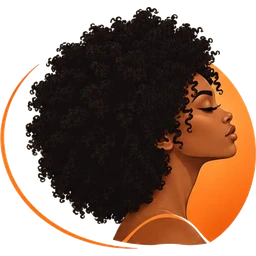
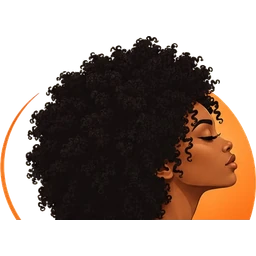
Release 0.2.0 (8) and pushed update 2: type 4 copy, hair-only mark
The landing hero now reads "Type 4 hair · loose or locked", "Hair SOS for
your coils." and "AfroCoils. Tailored to your hair, your hair care, and
easy styling." The page titles, About, the landing site's loose-hair card
and the README follow it to type 4. The quiz's curl-pattern options and
product tags still list 3A-3C: they describe hair, not who the app is for.

The mark is cut to the top 76% of the illustration so it shows the hair
and face, not the shoulders. brand:import regenerated the app mark,
favicons and launcher icons; the hero and splash keep the whole logo.
Update 2 carries the copy and mark to build 7; build 8 adds the icon.

diff --git a/site/index.html b/site/index.html
@@ -4,13 +4,13 @@
     <meta charset="UTF-8" />
     <meta name="viewport" content="width=device-width, initial-scale=1.0" />
     <meta name="theme-color" content="#E8D5C0" />
-    <title>AfroCoils — Hair SOS for coils, curls &amp; locs</title>
+    <title>AfroCoils — Hair SOS for your coils</title>
     <meta
       name="description"
-      content="AfroCoils is a hair app for type 3 and 4 hair, loose or locked. It opens straight into the rescue, works offline, needs no account, and keeps everything on your phone. Download for Android."
+      content="AfroCoils is a hair app for type 4 hair, loose or locked, tailored to your hair, your hair care and easy styling. It opens straight into the rescue, works offline, needs no account, and keeps everything on your phone. Download for Android."
     />
     <meta property="og:type" content="website" />
-    <meta property="og:title" content="AfroCoils — Hair SOS for coils, curls &amp; locs" />
+    <meta property="og:title" content="AfroCoils — Hair SOS for your coils" />
     <meta
       property="og:description"
       content="Say how long you've got and see the styles that fit it. Works offline, no account, no AI advice."
@@ -100,13 +100,13 @@
           <div class="text-center md:text-left">
             <p class="rise mb-lg inline-flex items-center gap-sm rounded-full border border-outline-variant/60 bg-surface-container-lowest/70 px-md py-1.5 font-label-md text-[11px] uppercase tracking-[0.1em] text-on-surface-variant backdrop-blur sm:text-caption sm:tracking-[0.14em]" style="--d: 0ms">
               <span class="h-2 w-2 rounded-full bg-secondary"></span>
-              Type 3 &amp; 4 hair · loose or locked
+              Type 4 hair · loose or locked
             </p>
             <h1 class="rise font-headline-lg text-[44px] font-bold leading-[1.02] tracking-[-0.03em] text-primary sm:text-[60px] lg:text-[76px]" style="--d: 90ms">
-              Hair SOS<br /><span class="font-medium italic text-brand-espresso/80">for coils, curls</span><br />&amp; locs.
+              Hair SOS<br /><span class="font-medium italic text-brand-espresso/80">for your coils.</span>
             </h1>
             <p class="rise mx-auto mt-lg max-w-xl font-body-lg text-body-lg text-on-surface-variant md:mx-0" style="--d: 200ms">
-              AfroCoils opens straight into the rescue. Say how long you&rsquo;ve got and see the styles that fit it &mdash; each one written up by the person who wore it, stored on your phone, and there when you have no signal.
+              <strong class="font-semibold text-primary">AfroCoils.</strong> Tailored to your hair, your hair care, and easy styling.
             </p>
             <div class="rise mt-xl flex flex-col items-center gap-md sm:flex-row sm:justify-center md:justify-start" style="--d: 300ms">
               <a href="#download" class="btn-shine inline-flex w-full items-center justify-center gap-sm rounded-full bg-secondary px-xl py-4 font-label-md text-body-lg font-semibold text-on-secondary shadow-xl shadow-brand-orange/30 transition-all hover:-translate-y-0.5 active:scale-95 sm:w-auto">
@@ -290,7 +290,7 @@
               <div class="absolute -right-16 -top-16 h-48 w-48 rounded-full bg-secondary-container/50 transition-transform duration-700 group-hover:scale-125"></div>
               <span class="relative mb-lg grid h-14 w-14 place-items-center rounded-2xl bg-primary-container text-on-primary-container"><svg class="h-7 w-7" fill="none" stroke="currentColor" stroke-width="1.8" stroke-linecap="round" stroke-linejoin="round" aria-hidden="true"><use href="#i-styles" /></svg></span>
               <h3 class="relative mb-sm font-headline-lg text-[28px] font-semibold text-primary">Loose natural</h3>
-              <p class="relative mb-lg font-body-md text-body-md text-on-surface-variant">Coils and curls, type 3 through 4. The style library is written for you.</p>
+              <p class="relative mb-lg font-body-md text-body-md text-on-surface-variant">Type 4 coils. The style library is written for you.</p>
               <ul class="relative space-y-sm">
                 <li class="flex gap-sm font-body-md text-body-md text-on-surface"><svg class="mt-1 h-4 w-4 shrink-0 text-secondary" fill="none" stroke="currentColor" stroke-width="3" stroke-linecap="round" stroke-linejoin="round" aria-hidden="true"><use href="#i-check" /></svg>%count.styles% contributed styles, by time, category and occasion</li>
                 <li class="flex gap-sm font-body-md text-body-md text-on-surface"><svg class="mt-1 h-4 w-4 shrink-0 text-secondary" fill="none" stroke="currentColor" stroke-width="3" stroke-linecap="round" stroke-linejoin="round" aria-hidden="true"><use href="#i-check" /></svg>Detangling, wash day and night-routine guides</li>

diff --git a/src/lib/page-title.ts b/src/lib/page-title.ts
@@ -24,9 +24,9 @@ const SUFFIX = 'AfroCoils'
 const TITLES: Record<string, string> = {
   // One screen at three addresses, so one title. Differing titles for
   // the same page is the kind of thing that quietly goes wrong.
-  '/': `${SUFFIX} — Hair SOS for type 3 and type 4 hair`,
-  '/home': `${SUFFIX} — Hair SOS for type 3 and type 4 hair`,
-  '/sos': `${SUFFIX} — Hair SOS for type 3 and type 4 hair`,
+  '/': `${SUFFIX} — Hair SOS for type 4 hair`,
+  '/home': `${SUFFIX} — Hair SOS for type 4 hair`,
+  '/sos': `${SUFFIX} — Hair SOS for type 4 hair`,
   '/sos/quick': `Quick hairstyles by the time you have · ${SUFFIX}`,
   '/sos/problem': `Hair problems and care guides · ${SUFFIX}`,
   '/styles': `Hair Styles · ${SUFFIX}`,

diff --git a/src/screens/AboutScreen.tsx b/src/screens/AboutScreen.tsx
@@ -36,7 +36,7 @@ const VERSION = version
 const ABOUT: { heading: string; body: string }[] = [
   {
     heading: 'What this is',
-    body: 'A hair app for type 3 and type 4 hair, loose or locked. It opens into Hair SOS rather than a home page, because people reach for it mid-problem far more often than they browse it — hair that will not cooperate, twenty minutes, somewhere to be.',
+    body: 'A hair app for type 4 hair, loose or locked. It opens into Hair SOS rather than a home page, because people reach for it mid-problem far more often than they browse it — hair that will not cooperate, twenty minutes, somewhere to be.',
   },
   {
     heading: 'Who it is for',

diff --git a/README.md b/README.md
@@ -1,6 +1,6 @@
 # AfroCoils
 
-Mobile app for type 3 / type 4 natural hair and locs, built as a Capacitor-wrapped
+Mobile app for type 4 natural hair and locs, built as a Capacitor-wrapped
 web app targeting Android.
 
 ## Stack
